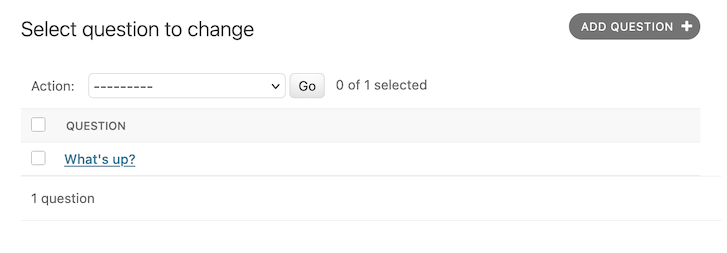
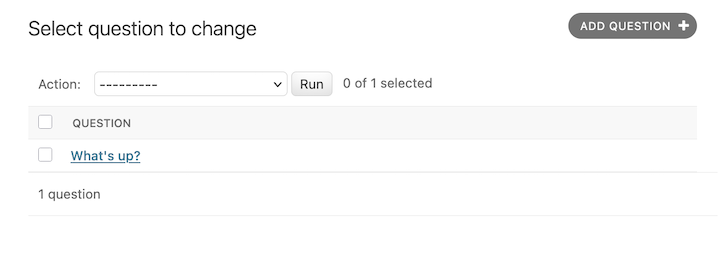
Fixed #36255 -- Renamed the admin action button for improved accessibility.

diff --git a/django/contrib/admin/templates/admin/actions.html b/django/contrib/admin/templates/admin/actions.html
@@ -5,7 +5,7 @@
     {% for field in action_form %}{% if field.label %}<label>{{ field.label }} {{ field }}</label>{% else %}{{ field }}{% endif %}{% endfor %}
     {% endblock %}
     {% block actions-submit %}
-    <button type="submit" class="button" title="{% translate "Run the selected action" %}" name="index" value="{{ action_index|default:0 }}">{% translate "Go" %}</button>
+    <button type="submit" class="button" name="index" value="{{ action_index|default:0 }}">{% translate "Run" %}</button>
     {% endblock %}
     {% block actions-counter %}
     {% if actions_selection_counter %}

diff --git a/tests/admin_views/templates/admin/admin_views/article/actions.html b/tests/admin_views/templates/admin/admin_views/article/actions.html
@@ -2,5 +2,5 @@
 {% load i18n %}
 
 {% block actions-submit %}
-<button type="submit" class="button override-actions" title="{% translate "Run the selected action" %}" name="index" value="{{ action_index|default:0 }}">{% translate "Go" %}</button>
+<button type="submit" class="button override-actions" name="index" value="{{ action_index|default:0 }}">{% translate "Run" %}</button>
 {% endblock %}
